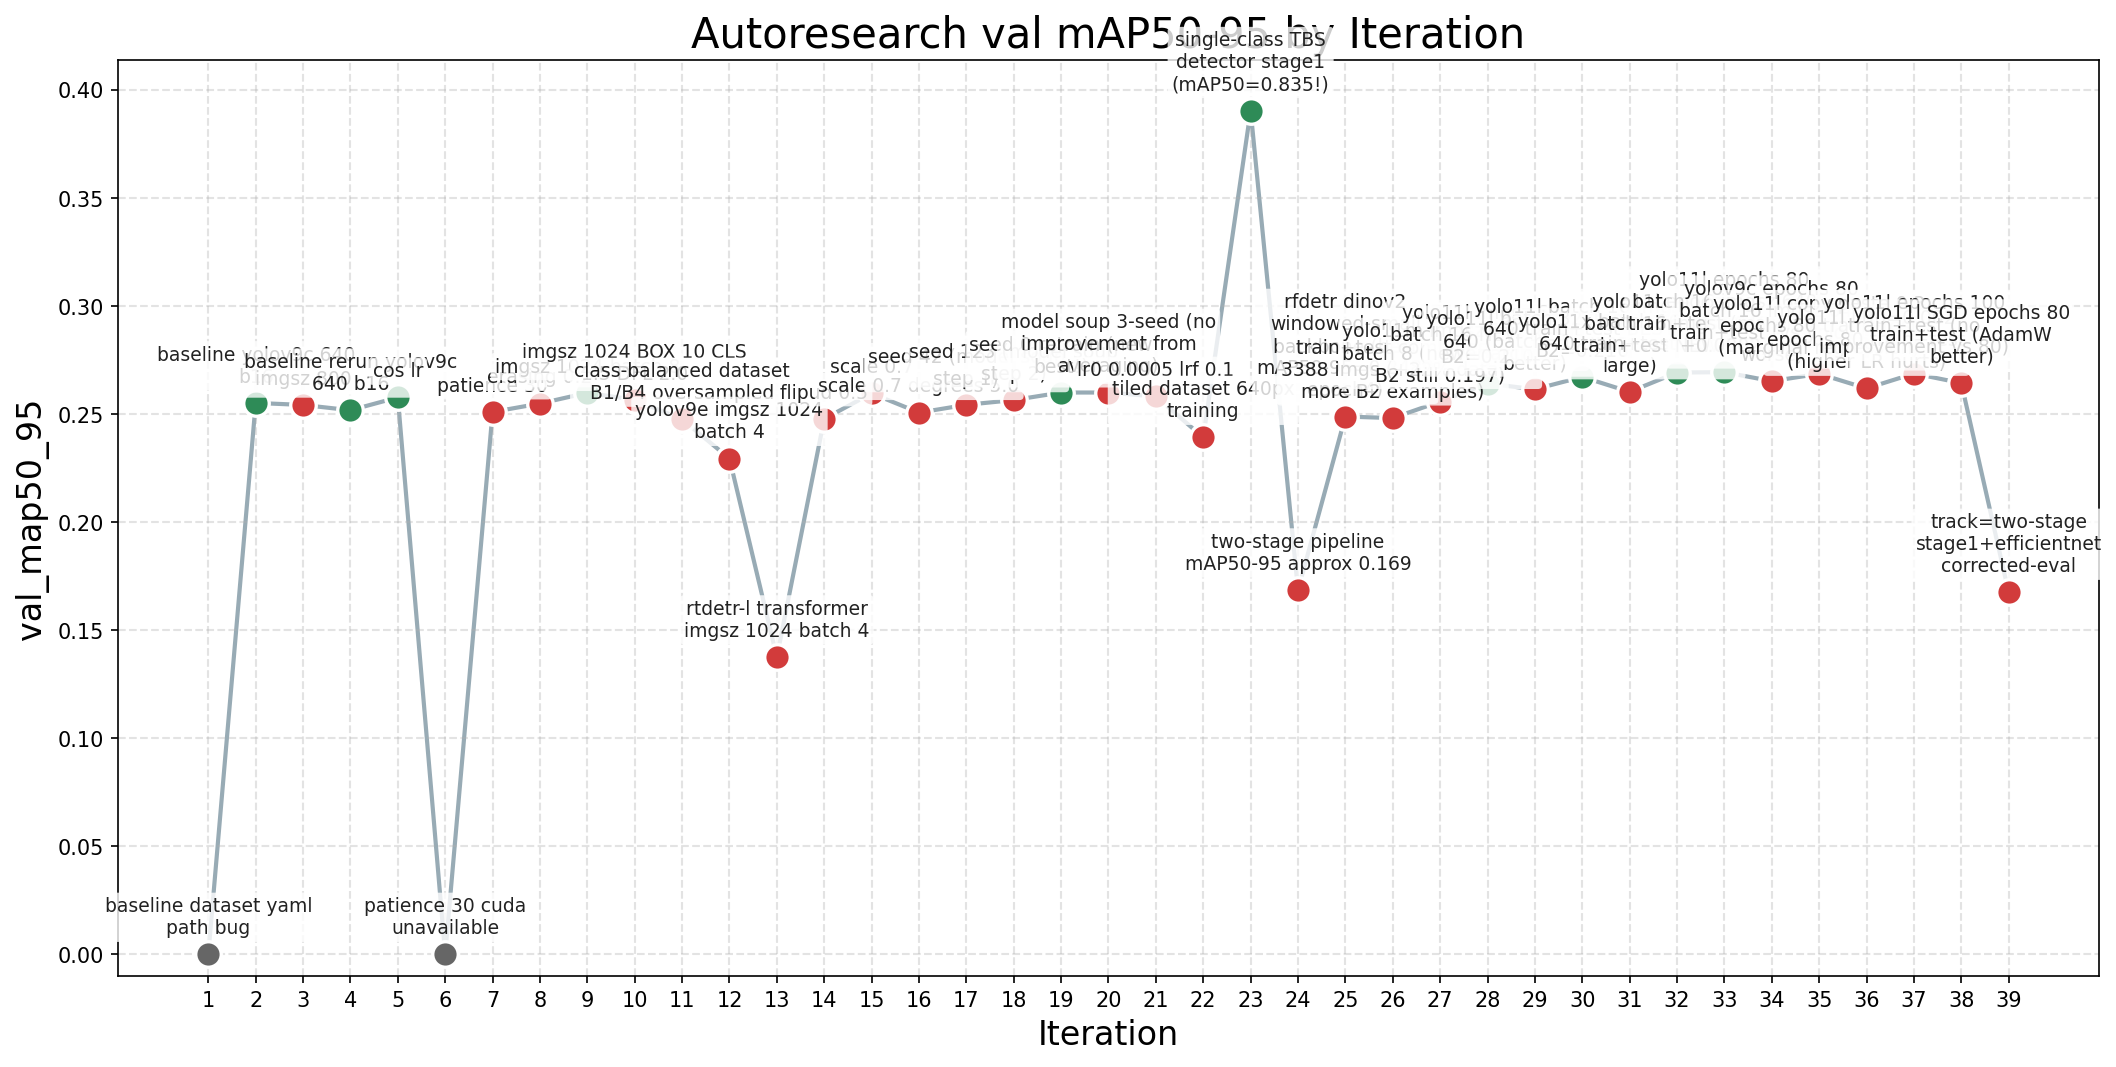
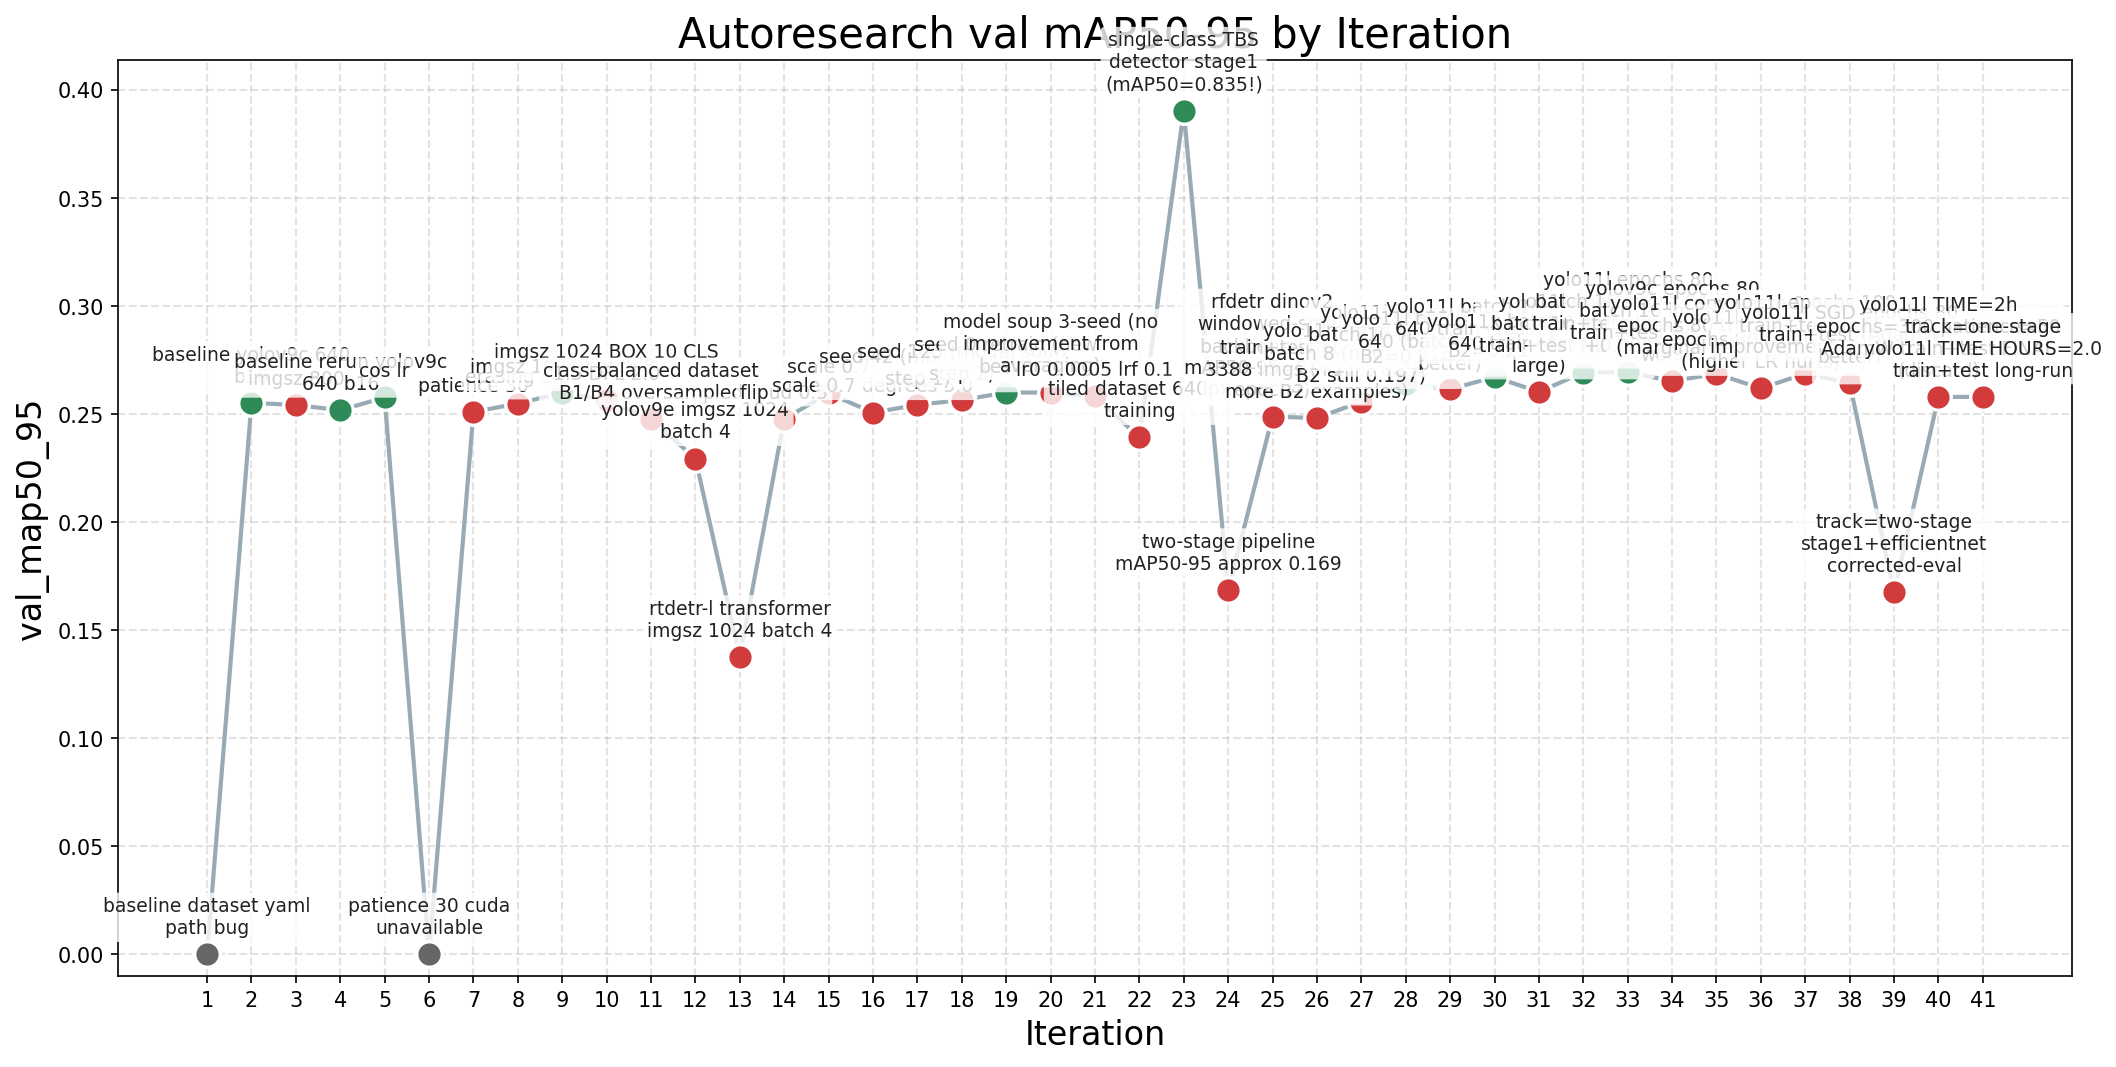
telemetry: record long one-stage run

Changed region(s): [[0.0312, 0.0, 0.9981, 0.9897]]

diff --git a/research/experiment-journal.md b/research/experiment-journal.md
@@ -356,3 +356,18 @@
 
 
 
+
+
+## Experiment 14 — 2026-03-15 05:21 UTC
+
+**Hypothesis**: If the earlier one-stage ceiling was mostly caused by undertraining, then extending TIME_HOURS to 2.0 on the best YOLO11l train+test recipe will let the model converge and exceed the 0.269 baseline.
+
+**Change**: Keep the best known one-stage recipe but extend the run to TIME_HOURS=2.0 with yolo11l, Dataset-TrainTest, imgsz=640, batch=16, AdamW, and cos_lr.
+
+**Result**: val_map50_95=0.257974 (delta=-0.132456 from best 0.390430) — DISCARD
+
+**Per-class**: B1=0.429 B2=0.209 B3=0.256 B4=0.138
+
+**Analysis**: Long-run one-stage did not validate the time-budget hypothesis. Final val_map50_95=0.257974, best observed during the run was only 0.258, both below the existing 0.269424 baseline. Validation drifted downward after the early peak, so the long-budget one-stage branch is now excluded as a path to 0.40-0.50. The next step is stronger stage-2 classification.
+
+**Next**: Freeze the old one-stage branch and move GPU budget to DINOv2 stage-2 classification, then its ordinal follow-up if B2 remains weak.
